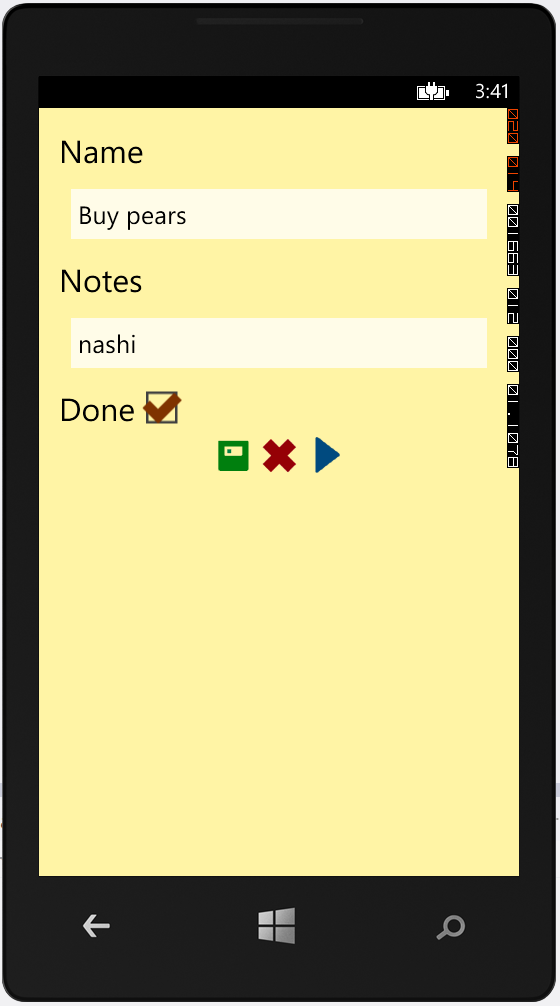
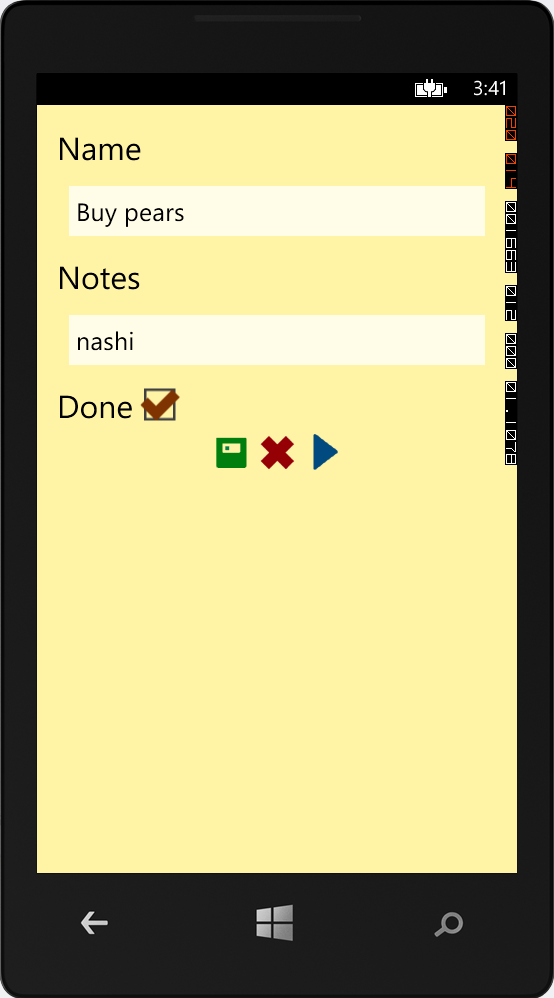
[todostyled] add images

diff --git a/TodoStyled/README.md b/TodoStyled/README.md
@@ -1,0 +1,10 @@
+Todo (Styled Xamarin.Forms sample)
+===========
+
+Using the basic [Todo sample app](https://github.com/xamarin/xamarin-forms-samples/tree/master/Todo) for Xamarin.Forms, add some fun styling with colors, fonts and animations.
+
+![screenshot](https://raw.githubusercontent.com/xamarin/xamarin-forms-samples/master/TodoStyled/Screenshots/ALL-list-sml.png "List")
+
+![screenshot](https://raw.githubusercontent.com/xamarin/xamarin-forms-samples/master/TodoStyled/Screenshots/ALL-detail-sml.png "Detail")
+
+Note: this is not intended to be a 'styling-best-practice' example, just a demonstration of what sorts of things you can style using Xamarin.Forms.
